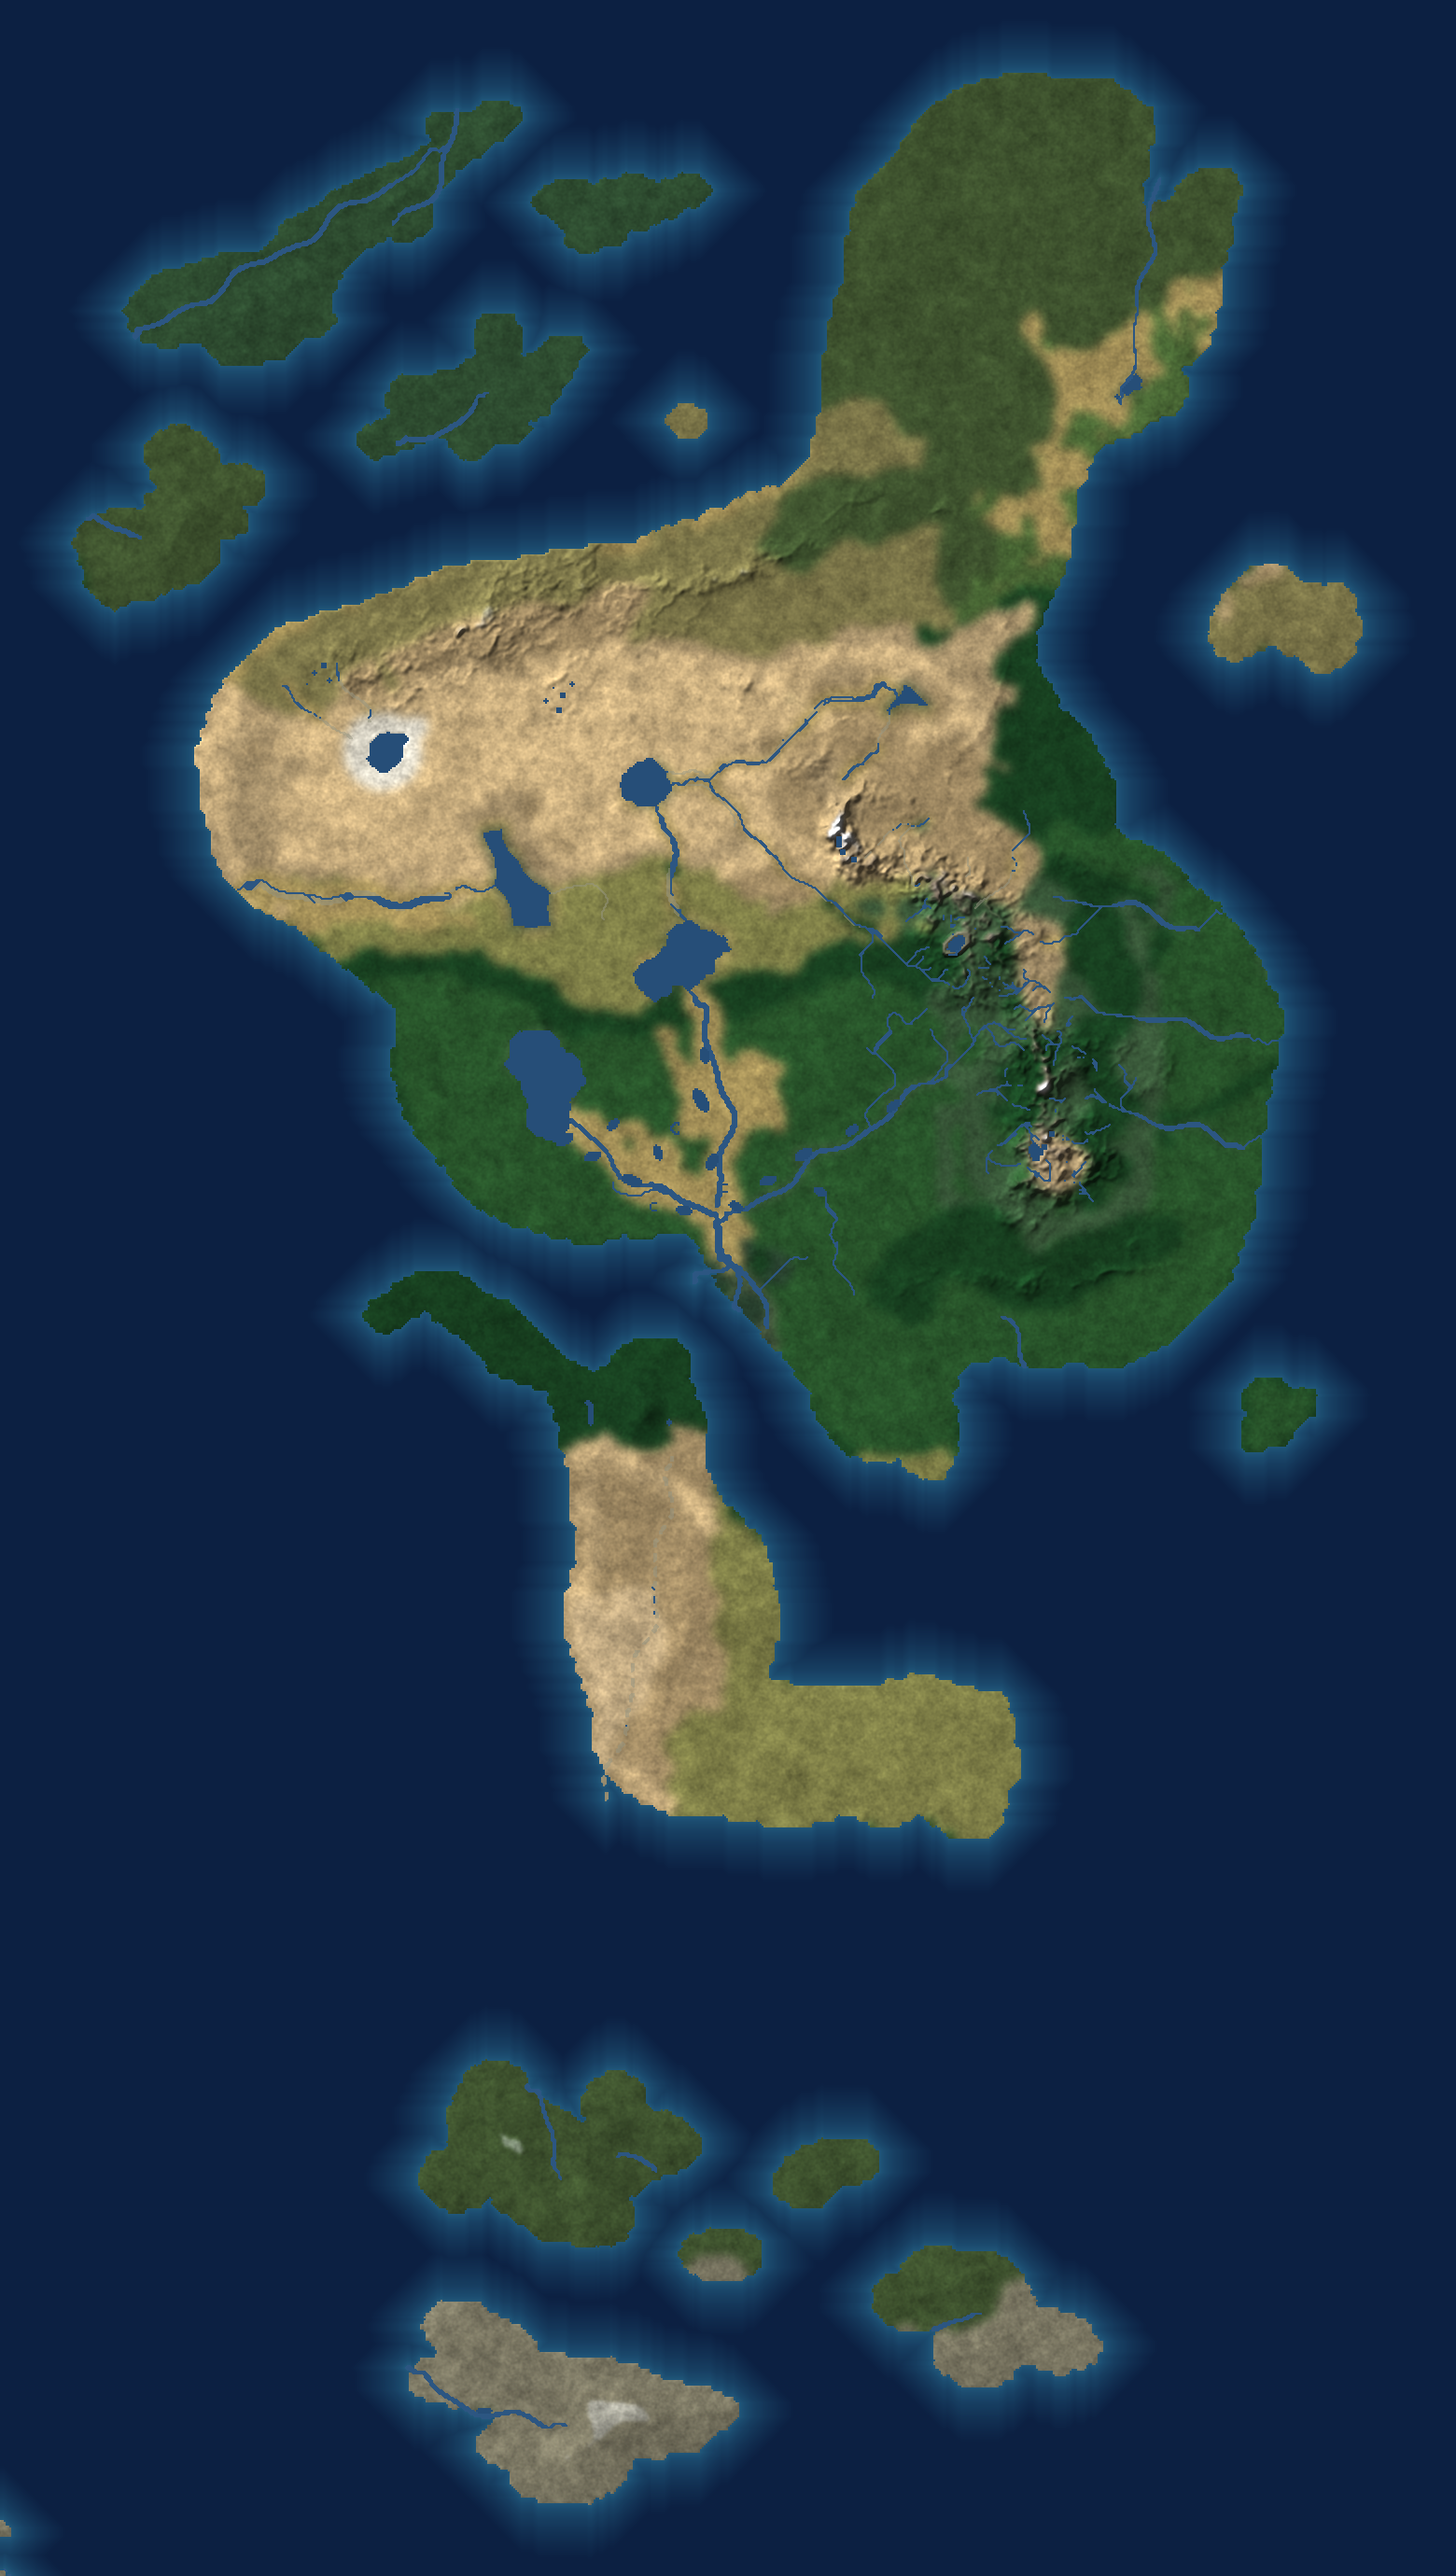
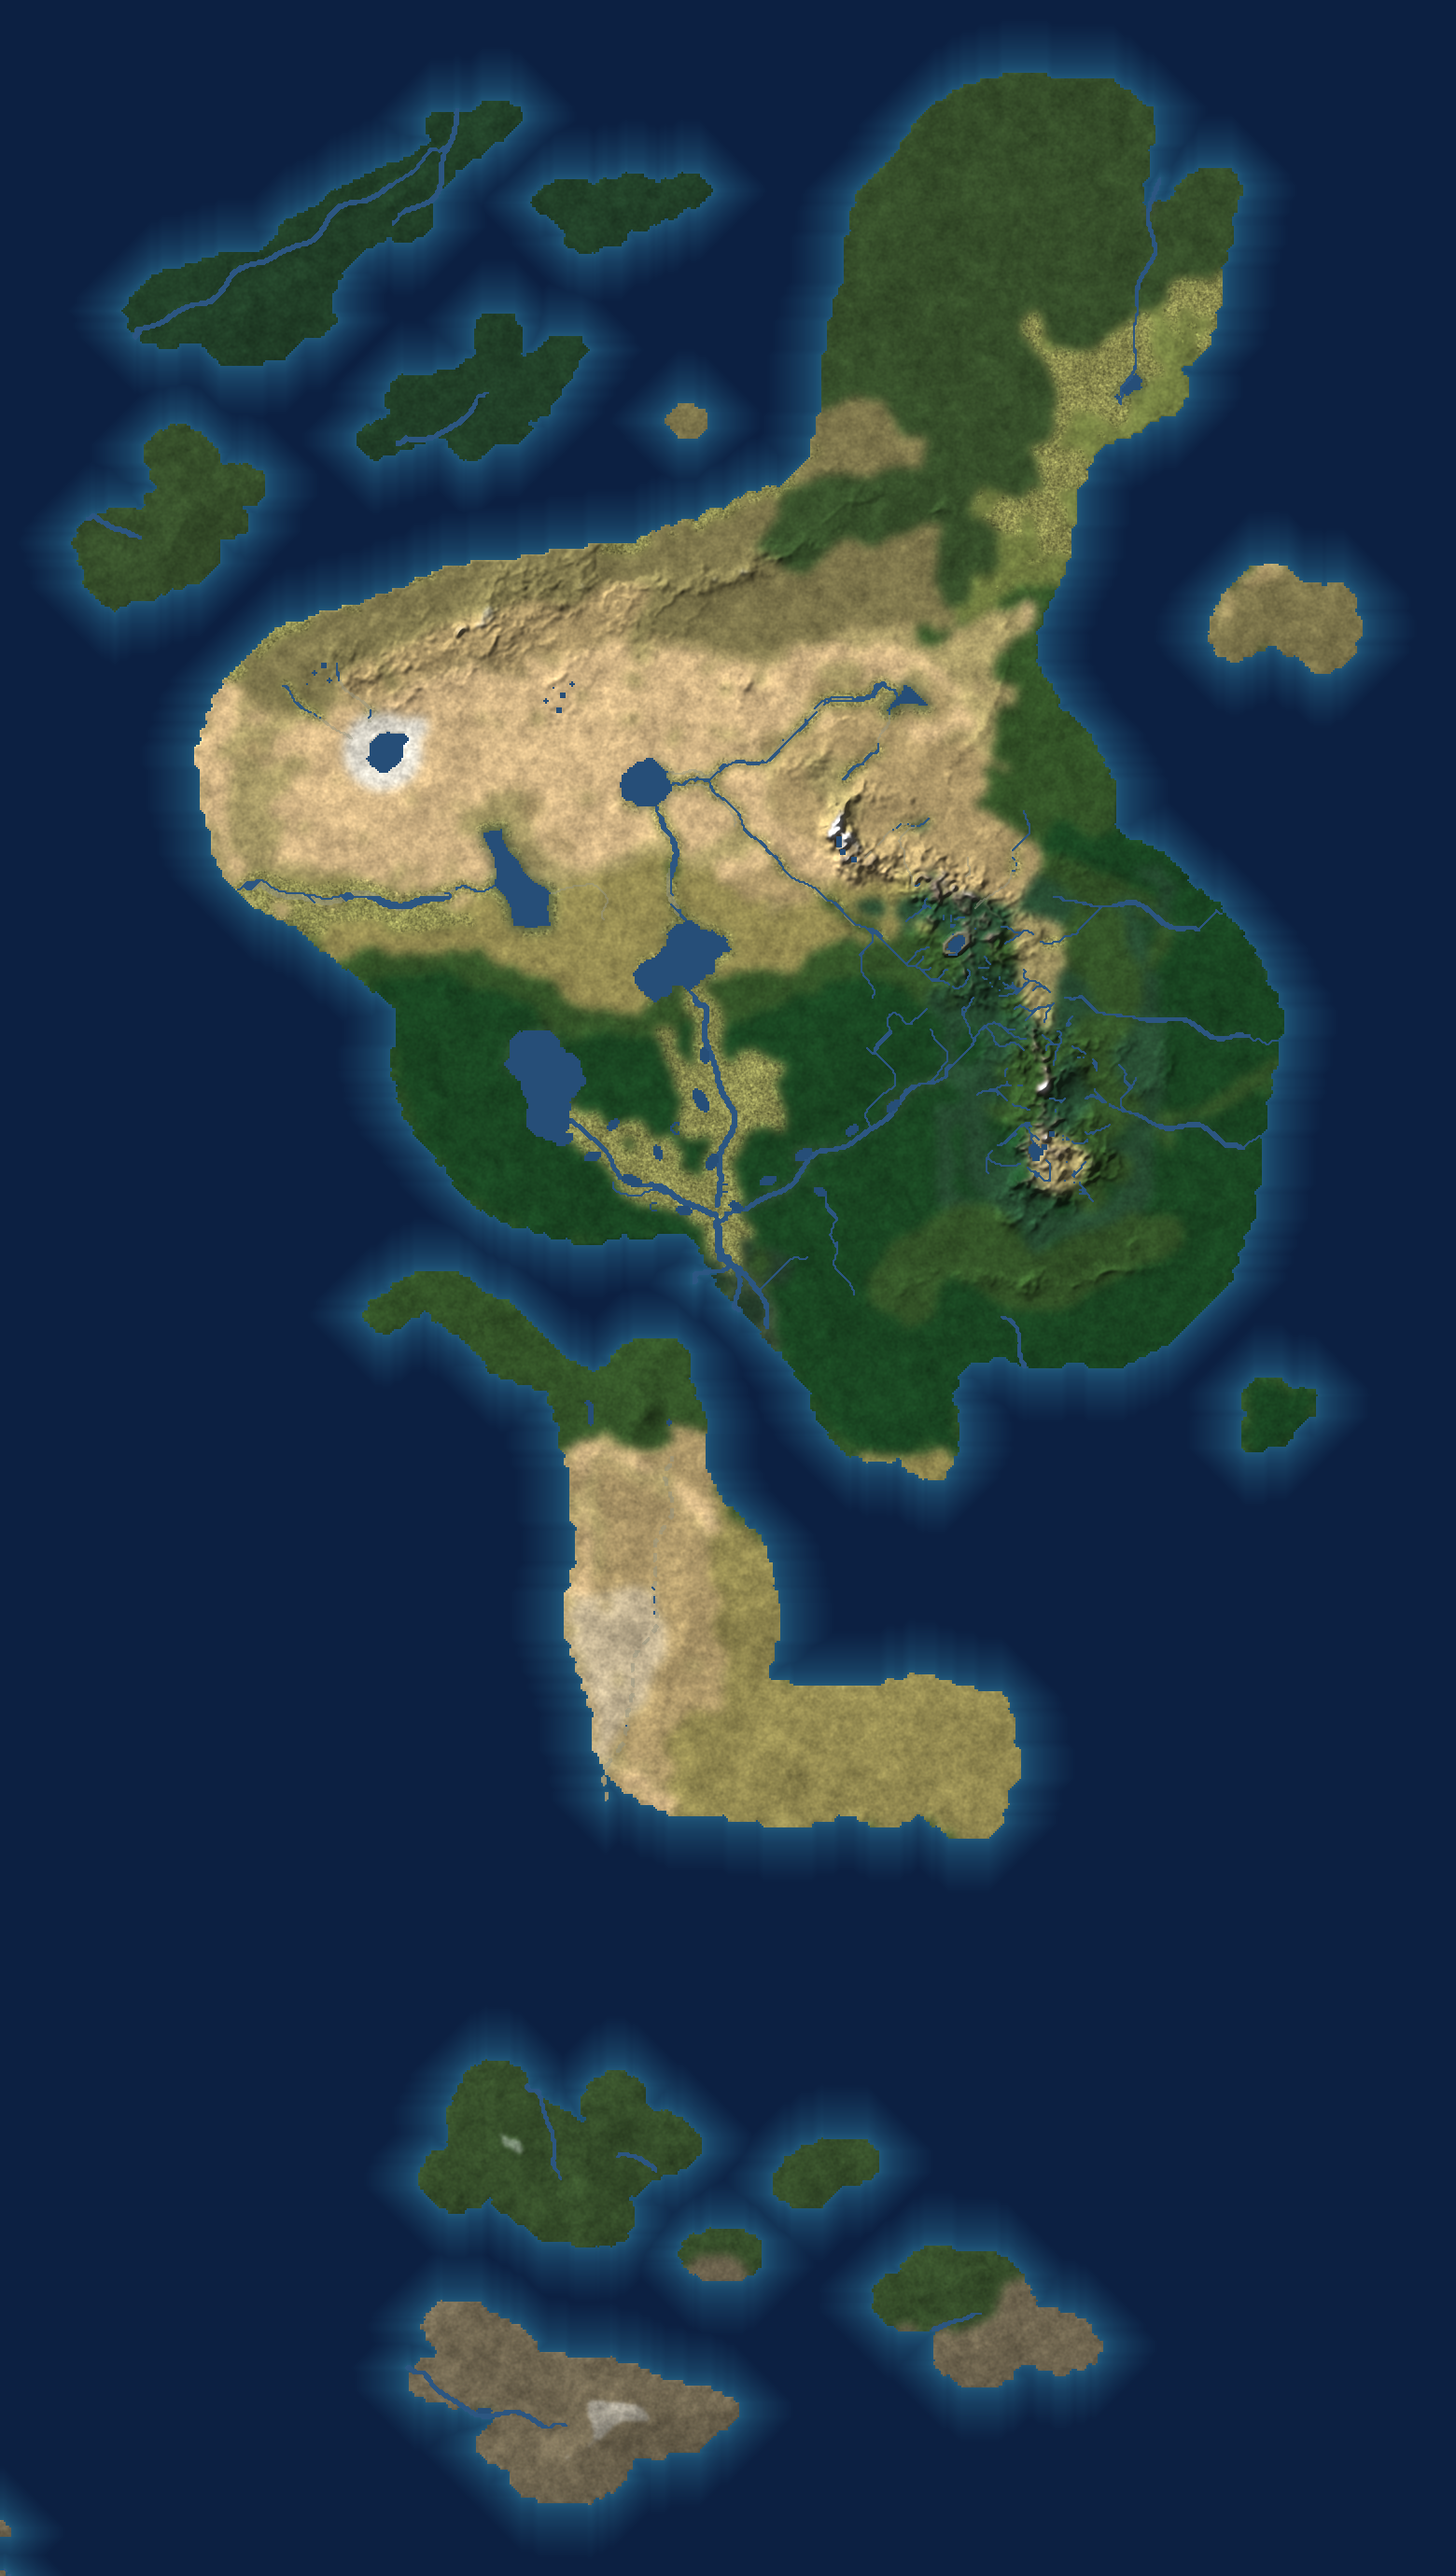
Use confirmed C1 climate classes in Morasil render; add farmland texture
Claude-Session: https://claude.ai/code/session_017RCYKXUZ8RTcKgXCFX8jqt

Changed region(s): [[0.5846, 0.0935, 0.8308, 0.5297], [0.1846, 0.3428, 0.6462, 0.4986], [0.2462, 0.4674, 0.4923, 0.5609]]

diff --git a/morasil/render_realistic.py b/morasil/render_realistic.py
@@ -6,8 +6,8 @@ Inputs (morasil/data/, all 780x1380, 12 px per degree, 50N at row 60):
   snow.png             1 seasonal mountain, 2 permanent, 3 glacier tongue, 4 winter lowland
   water.png            1 river, 2 seasonal river, 16 lake, other = waterfall/gorge marks
 
-Climate-class colours below are a first guess from the shaded-relief map;
-they need checking against the C1_climate_combined legend.
+climate_classes.png is the C1_climate_combined map (climate + step 7 land use);
+class numbers and names match its legend.
 """
 import numpy as np
 from PIL import Image
@@ -17,26 +17,27 @@ HERE = Path(__file__).parent
 DATA = HERE / "data"
 SCALE = 2  # output pixels per data pixel
 
-# Natural ground colour per climate class (guessed meaning in comments).
+# Natural ground colour per class of C1_climate_combined (v2, Oct 23, step 7 land use).
 CLASS_RGB = {
-    1: (40, 84, 42),     # tropical monsoon / rainforest edge
-    2: (24, 64, 32),     # tropical rainforest
-    3: (128, 128, 72),   # savanna
-    4: (72, 102, 52),    # humid subtropical
-    5: (168, 146, 108),  # rocky desert
-    6: (206, 178, 130),  # sandy desert
-    7: (226, 221, 206),  # salt flats
-    8: (122, 116, 72),   # Mediterranean scrub
-    9: (158, 136, 98),   # highland semi-desert
-    10: (62, 82, 46),    # temperate / boreal forest
-    11: (46, 76, 48),    # oceanic forest
-    12: (122, 118, 98),  # tundra / subpolar
-    13: (56, 86, 56),    # montane forest
-    14: (164, 144, 88),  # steppe
-    15: (40, 64, 46),    # mangrove
-    16: (196, 172, 132), # coastal desert
-    18: (76, 92, 66),    # marsh / swamp
+    1: (26, 70, 34),     # jungle (tropical rainforest)
+    2: (52, 84, 40),     # seasonal tropical forest
+    3: (150, 140, 82),   # savanna
+    4: (116, 128, 66),   # grassland
+    5: (170, 156, 104),  # steppe (dry grassland)
+    6: (214, 184, 136),  # hot desert
+    7: (228, 224, 212),  # salt flats
+    8: (126, 118, 76),   # scrubland (Mediterranean)
+    9: (172, 150, 104),  # dry scrub
+    10: (54, 78, 42),    # temperate forest
+    11: (34, 64, 40),    # temperate rainforest
+    12: (112, 102, 80),  # moorland
+    13: (40, 76, 50),    # cloud forest
+    14: (140, 140, 80),  # farmland
+    15: (36, 60, 42),    # mangroves
+    16: (196, 180, 148), # coastal fog desert
+    18: (70, 88, 62),    # marsh / swamp
 }
+FARMLAND = 14
 LAKE = np.array([38, 78, 120], float)
 RIVER = np.array([44, 86, 130], float)
 SEASONAL = np.array([150, 150, 130], float)
@@ -125,6 +126,11 @@ def main():
     rng = np.random.default_rng(7)
     tex = sum(blur(rng.standard_normal(E.shape), r) * r for r in (1, 3, 8))
     tex = 1 + 0.06 * tex / tex.std()
+
+    # Farmland gets a stronger, finer patchwork than wild ground.
+    farm = up((cls == FARMLAND).astype(float), Image.BILINEAR)
+    fields = blur(rng.standard_normal(E.shape), 0.7)
+    tex = tex * (1 + 0.10 * farm * fields / fields.std())
 
     out = RGB * (shade * tex)[..., None]
 

diff --git a/morasil/README.md b/morasil/README.md
@@ -9,7 +9,7 @@ Run: `python3 morasil/render_realistic.py` (needs numpy and Pillow).
 | File | Contents | Status |
 |---|---|---|
 | `elevation.png` | 16-bit, sea level = 1000, 1 unit = 1 m (max 6,654 m) | confirmed against the v5 elevation map |
-| `climate_classes.png` | climate class per pixel (from C1_climate_combined) | class meanings guessed; need the legend |
+| `climate_classes.png` | C1_climate_combined v2 (Oct 23, step 7 land use): 1 jungle, 2 seasonal tropical forest, 3 savanna, 4 grassland, 5 steppe, 6 hot desert, 7 salt flats, 8 scrubland, 9 dry scrub, 10 temperate forest, 11 temperate rainforest, 12 moorland, 13 cloud forest, 14 farmland, 15 mangroves, 16 coastal fog desert, 18 marsh; 0 = lake | confirmed against the C1 legend |
 | `water.png` | 1 river, 2 seasonal river, 16 lake, 4/5/6/9/13 waterfall or gorge marks | 1, 2, 16 clear; small marks not yet identified |
 | `snow.png` | 1 seasonal mountain snow, 2 permanent, 3 glacier tongue, 4 winter lowland snow | read from elevation and the relief legend |
 | `coast_classes.png` | coast type 1-10 and 20 (10 = fjord) | not used yet; needs legend |
